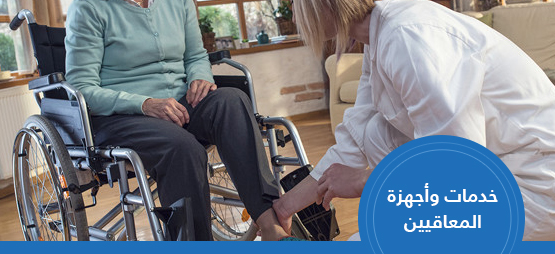
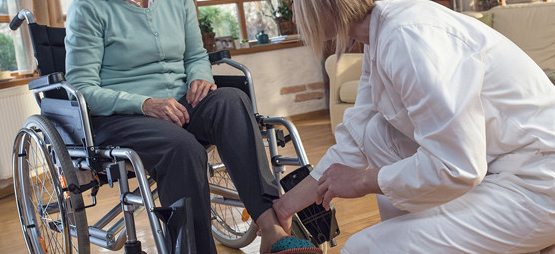
navbar

Changed region(s): [[0.0, 0.5236, 1.0, 1.0]]

diff --git a/css/main.css b/css/main.css
@@ -209,6 +209,10 @@ html {
   animation: move 5s linear forwards infinite, fade 5s linear infinite;
 }
 
+.flex-fix {
+  display: flex;
+}
+
 @font-face {
   font-family: "Frutiger";
   src: url("../fonts/frutiger/FrutigerLTArabic-55Roman.ttf");
@@ -511,20 +515,20 @@ html[dir=ltr] .xs-nav .main-nav {
   border-radius: 50%;
   width: 10px;
   height: 10px;
-  background: rgba(158, 196, 59, 0.8);
+  background: rgba(0, 0, 0, 0.5);
   -moz-transition: all 0.3s ease-in-out;
   -o-transition: all 0.3s ease-in-out;
   -webkit-transition: all 0.3s ease-in-out;
   transition: all 0.3s ease-in-out;
 }
 .clients-slider .owl-dots .owl-dot span:hover {
-  background: #105da3;
+  background: #9ec43b;
 }
 .clients-slider .owl-dots .owl-dot.active {
   cursor: auto;
 }
 .clients-slider .owl-dots .owl-dot.active span {
-  background: #105da3;
+  background: #9ec43b;
 }
 .clients-slider .owl-nav {
   width: 0;
@@ -594,6 +598,7 @@ html[dir=ltr] .xs-nav .main-nav {
   -webkit-filter: grayscale(100%);
   /* Safari 6.0 - 9.0 */
   filter: grayscale(100%);
+  opacity: 0.5;
 }
 .client .client-img:hover img {
   -webkit-filter: none;
@@ -997,7 +1002,7 @@ html[dir=ltr] .about .about-text {
 }
 @media (max-width: 991px) {
   .state {
-    margin-bottom: 25px;
+    margin-bottom: 40px;
   }
 }
 .state .state-img {
@@ -1064,7 +1069,7 @@ html[dir=ltr] .about .about-text {
     left: 50%;
     background-color: white;
     opacity: 0.251;
-    bottom: -15px;
+    bottom: -20px;
     top: auto;
     transform: translateX(-50%);
   }
@@ -1080,6 +1085,7 @@ html[dir=ltr] .state::after {
 @media (max-width: 991px) {
   html[dir=ltr] .state::after {
     left: auto;
+    right: 50%;
     transform: translateX(50%);
   }
 }
@@ -1099,18 +1105,72 @@ html[dir=ltr] .state.last-state::after {
 }
 .services .service {
   margin-bottom: 30px;
+  position: relative;
+  overflow: hidden;
 }
 @media (max-width: 991px) {
   .services .service {
     margin: 0 auto 20px;
-    display: flex;
+    display: inline-flex;
     align-items: center;
     justify-content: center;
   }
 }
-.services .service:before {
-  background: -webkit-radial-gradient(center, ellipse, rgba(16, 93, 163, 0.35) 0, rgba(16, 93, 163, 0) 80%);
-  background: radial-gradient(ellipse at center, rgba(16, 93, 163, 0.35) 0, rgba(16, 93, 163, 0) 80%);
+.services .service:after {
+  content: "";
+  width: 100%;
+  background-color: #1e6fb9;
+  height: 13px;
+  position: absolute;
+  bottom: 0;
+  left: 0;
+  z-index: 3;
+}
+.services .service img {
+  z-index: 1;
+  -moz-transition: all 0.3s ease-in-out;
+  -o-transition: all 0.3s ease-in-out;
+  -webkit-transition: all 0.3s ease-in-out;
+  transition: all 0.3s ease-in-out;
+}
+.services .service:hover img {
+  transform: scale(1.1);
+}
+.services .serv-title {
+  display: flex;
+  align-items: center;
+  justify-content: center;
+  width: 167px;
+  height: 167px;
+  background-color: #1e6fb9;
+  color: #fff;
+  font-size: 19px;
+  font-family: "Frutiger-bold";
+  border-radius: 50%;
+  padding: 0 25px;
+  text-align: center;
+  position: absolute;
+  bottom: -40px;
+  right: 30px;
+  z-index: 4;
+}
+.services .serv-title:before {
+  content: "";
+  position: absolute;
+  width: 136px;
+  height: 136px;
+  border: 1px solid rgba(132, 186, 234, 0.502);
+  border-radius: 50%;
+  background-color: transparent;
+}
+.services .serv-title:after {
+  content: "";
+  position: absolute;
+  width: 150px;
+  height: 150px;
+  border: 1px solid rgba(132, 186, 234, 0.302);
+  border-radius: 50%;
+  background-color: transparent;
 }
 
 .foot {
@@ -1191,6 +1251,13 @@ html[dir=ltr] .contact i {
 
 @media (max-width: 767px) {
   .foot-nav-links-header {
+    margin-bottom: 12px;
+    margin-top: 12px;
+  }
+}
+
+@media (max-width: 767px) {
+  .contact-header {
     margin-bottom: 12px;
     margin-top: 12px;
   }
@@ -1324,6 +1391,7 @@ html[dir=ltr] .news-btn {
     order: 2;
     margin-top: 10px;
     padding: 10px 0;
+    text-align: center;
   }
 }
 .copyright .tasawk {

diff --git a/css/sass/pages/_home.scss b/css/sass/pages/_home.scss
@@ -158,7 +158,7 @@ html[dir="ltr"] .about {
     flex-direction: column;
 
     @media (max-width:991px) {
-        margin-bottom: 25px;
+        margin-bottom: 40px;
     }
 
     .state-img {
@@ -223,7 +223,7 @@ html[dir="ltr"] .about {
             left: 50%;
             background-color: rgb(255, 255, 255);
             opacity: 0.251;
-            bottom: -15px;
+            bottom: -20px;
             top: auto;
             transform: translateX(-50%);
         }
@@ -244,6 +244,7 @@ html[dir="ltr"] .state {
 
         @media (max-width:991px) {
             left: auto;
+            right: 50%;
             transform: translateX(50%);
         }
     }
@@ -268,17 +269,77 @@ html[dir="ltr"] .state {
 
     .service {
         margin-bottom: 30px;
+        position: relative;
+        overflow: hidden;
 
         @media (max-width:991px) {
             margin: 0 auto 20px;
-            display: flex;
+            display: inline-flex;
             align-items: center;
             justify-content: center;
         }
 
+        &:after {
+            content: "";
+            width: 100%;
+            background-color: #1e6fb9;
+            height: 13px;
+            position: absolute;
+            bottom: 0;
+            left: 0;
+            z-index: 3;
+        }
+
+        img {
+            z-index: 1;
+            @include transition(all 0.3s ease-in-out);
+        }
+
+        &:hover {
+
+            img {
+                transform: scale(1.1);
+            }
+        }
+    }
+
+    .serv-title {
+        display: flex;
+        align-items: center;
+        justify-content: center;
+        width: 167px;
+        height: 167px;
+        background-color: #1e6fb9;
+        color: #fff;
+        font-size: 19px;
+        font-family: 'Frutiger-bold';
+        border-radius: 50%;
+        padding: 0 25px;
+        text-align: center;
+        position: absolute;
+        bottom: -40px;
+        right: 30px;
+        z-index: 4;
+
+
         &:before {
-            background: -webkit-radial-gradient(center, ellipse, rgba($seccolor, .35) 0, rgba($seccolor, 0) 80%);
-            background: radial-gradient(ellipse at center, rgba($seccolor, .35) 0, rgba($seccolor, 0) 80%);
+            content: "";
+            position: absolute;
+            width: 136px;
+            height: 136px;
+            border: 1px solid rgba(#84baea, 0.502);
+            border-radius: 50%;
+            background-color: transparent;
+        }
+
+        &:after {
+            content: "";
+            position: absolute;
+            width: 150px;
+            height: 150px;
+            border: 1px solid rgba(#84baea, 0.302);
+            border-radius: 50%;
+            background-color: transparent;
         }
     }
 }

diff --git a/index.html b/index.html
@@ -190,24 +190,32 @@
     <div class="container">
       <h1 class="fixall services-title">خدمات نقدمها بإحترافية</h1>
       <div class="row">
-        <div class="col-md-6">
-          <div class="service hvr-float-shadow">
+        <div class="col-md-6 flex-fix">
+          <div class="service">
             <a href="#!"><img src="images/serv1.jpg" class="img-responsive"></a>
+            <a href="#" class="fixall serv-title">العناية الطبية
+              المنزلية</a>
           </div>
         </div>
-        <div class="col-md-6 ">
-          <div class="service hvr-float-shadow">
+        <div class="col-md-6 flex-fix">
+          <div class="service">
             <a href="#!"><img src="images/serv2.jpg" class="img-responsive"></a>
+            <a href="#" class="fixall serv-title">خدمات وأجهزة
+              المعاقيين</a>
           </div>
         </div>
-        <div class="col-md-6">
-          <div class="service hvr-float-shadow">
+        <div class="col-md-6 flex-fix">
+          <div class="service">
             <a href="#!"><img src="images/serv3.jpg" class="img-responsive"></a>
+            <a href="#" class="fixall serv-title">تجهيز
+              المستشفيات</a>
           </div>
         </div>
-        <div class="col-md-6">
-          <div class="service hvr-float-shadow">
+        <div class="col-md-6 flex-fix">
+          <div class="service">
             <a href="#!"><img src="images/serv4.jpg" class="img-responsive"></a>
+            <a href="#" class="fixall serv-title">تجهيز
+              العيادات</a>
           </div>
         </div>
       </div>

diff --git a/css/sass/components/_carousel.scss b/css/sass/components/_carousel.scss
@@ -143,11 +143,11 @@
                 border-radius: 50%;
                 width: 10px;
                 height: 10px;
-                background: rgba($maincolor, 0.8);
+                background: rgba(#000000, 0.5);
                 @include transition(all 0.3s ease-in-out);
 
                 &:hover {
-                    background: $seccolor;
+                    background: $maincolor;
                 }
             }
 
@@ -155,7 +155,7 @@
                 cursor: auto;
 
                 span {
-                    background: $seccolor;
+                    background: $maincolor;
                 }
             }
         }
@@ -227,6 +227,7 @@
             -webkit-filter: grayscale(100%);
             /* Safari 6.0 - 9.0 */
             filter: grayscale(100%);
+            opacity: 0.5;
         }
 
         &:hover {

diff --git a/css/sass/layout/_footer.scss b/css/sass/layout/_footer.scss
@@ -80,6 +80,13 @@ html[dir="ltr"] .contact {
     }
 }
 
+.contact-header {
+    @media (max-width:767px) {
+        margin-bottom: 12px;
+        margin-top: 12px;
+    }
+}
+
 .foot-links {
     display: flex;
     align-items: flex-start;
@@ -205,6 +212,7 @@ html[dir="ltr"] .news-btn {
         order: 2;
         margin-top: 10px;
         padding: 10px 0;
+        text-align: center;
     }
 
     .tasawk {

diff --git a/css/sass/base/_reset.scss b/css/sass/base/_reset.scss
@@ -149,3 +149,7 @@ html {
     -webkit-animation: move 5s linear forwards infinite, fade 5s linear infinite;
     animation: move 5s linear forwards infinite, fade 5s linear infinite;
 }
+
+.flex-fix {
+    display: flex;
+}
